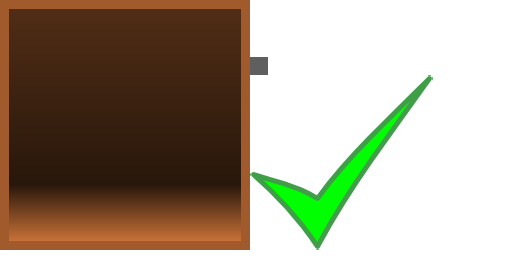
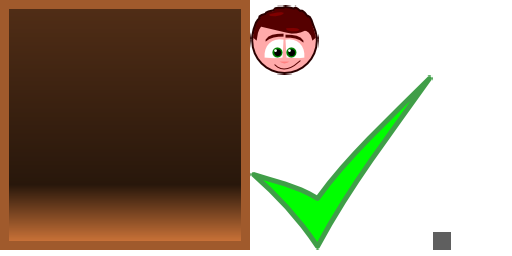
Nicer customer indicator

Changed region(s): [[0.4688, 0.0, 0.625, 0.3125], [0.8438, 0.9062, 0.9062, 1.0]]

diff --git a/burgerparty/src/com/agateau/burgerparty/view/CustomerIndicator.java b/burgerparty/src/com/agateau/burgerparty/view/CustomerIndicator.java
@@ -1,0 +1,35 @@
+package com.agateau.burgerparty.view;
+
+import com.badlogic.gdx.graphics.g2d.SpriteBatch;
+import com.badlogic.gdx.graphics.g2d.TextureAtlas;
+import com.badlogic.gdx.graphics.g2d.TextureRegion;
+import com.badlogic.gdx.scenes.scene2d.ui.Widget;
+
+public class CustomerIndicator extends Widget {
+	private TextureRegion mRegion;
+	private int mCount = 0;
+
+	private static final float SPACING = 10;
+
+	public CustomerIndicator(TextureAtlas atlas) {
+		mRegion = atlas.findRegion("face");
+		setHeight(mRegion.getRegionHeight());
+	}
+
+	public void setCount(int value) {
+		mCount = value;
+		setWidth(mCount * mRegion.getRegionWidth() + (mCount - 1) * SPACING);
+		invalidate();
+	}
+
+	@Override
+	public void draw(SpriteBatch batch, float parentAlpha) {
+		batch.setColor(1, 1, 1, parentAlpha);
+		float width = mRegion.getRegionWidth() * getScaleX();
+		float height = getHeight() * getScaleX();
+		float posX = 0;
+		for(int n = 0; n < mCount; ++n, posX += width + SPACING * getScaleX()) {
+			batch.draw(mRegion, getX() + posX, getY(), width, height);
+		}
+	}
+}

diff --git a/burgerparty/src/com/agateau/burgerparty/view/WorldView.java b/burgerparty/src/com/agateau/burgerparty/view/WorldView.java
@@ -37,7 +37,7 @@ public class WorldView extends AnchorGroup {
 	private Label mTimerDisplay;
 	private Label mScoreLabel;
 	private Actor mGameOverOverlay;
-	private Label mCustomerIndicator;
+	private CustomerIndicator mCustomerIndicator;
 
 	public WorldView(BurgerPartyGame game, World world, TextureAtlas atlas, Skin skin) {
 		setFillParent(true);
@@ -132,7 +132,7 @@ public class WorldView extends AnchorGroup {
 	}
 
 	private void setupCustomerIndicator() {
-		mCustomerIndicator = new Label("", mSkin);
+		mCustomerIndicator = new CustomerIndicator(mAtlas);
 	}
 
 	private void setupAnchors() {
@@ -156,12 +156,8 @@ public class WorldView extends AnchorGroup {
 	}
 
 	private void updateCustomerIndicator() {
-		String txt = "";
-		for (int x = 0; x < mWorld.getCustomerCount(); ++x) {
-			txt += "X";
-		}
-		mCustomerIndicator.setText(txt);
-		UiUtils.adjustToPrefSize(mCustomerIndicator);
+		mCustomerIndicator.setCount(mWorld.getCustomerCount());
+		mCustomerIndicator.setScale(0.5f);
 	}
 
 	private void showGameOverOverlay() {
